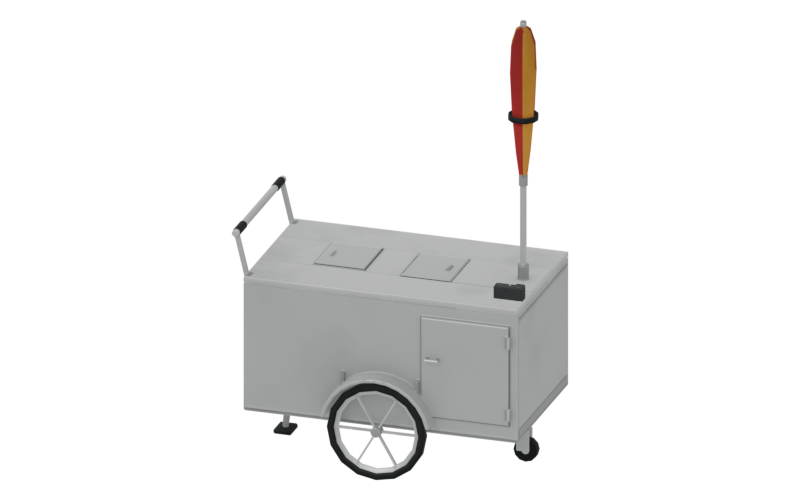
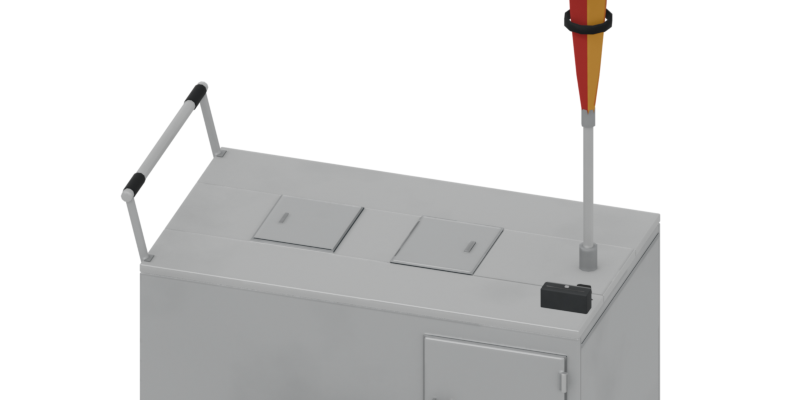
Render the equipment diagrams as close-ups of the places
Peter found the icons too small on the whole-vehicle drawings. The truck
now shows only the back counter with its four places (1200 x 400), the
cart only its counter top (800 x 400), each framed so a 0.40 m piece is a
third of the image height.

diff --git a/art/tools/render_diagrams.py b/art/tools/render_diagrams.py
@@ -25,7 +25,7 @@ CHECK = args[3] if len(args) > 3 else None
 
 PIECE = 0.40          # a piece's footprint along the line (m): the icon's suggested size
 PIECE_HALF_HEIGHT = 0.22  # icon centre above the place (a typical piece is 0.40 to 0.50 m tall)
-MARGIN = 0.04
+ICON_FRACTION = 0.33  # a 0.40 m piece as a fraction of the image height
 METALLIC = 1.0
 
 
@@ -35,19 +35,19 @@ def unity(x, y, z):
 
 KINDS = [
     {
-        "kind": "truck", "image": "VehicleDiagram_Truck.png", "size": (1200, 500),
+        "kind": "truck", "image": "VehicleDiagram_Truck.png", "size": (1200, 400), "lift": 0.10,
         "fbx": "truck/FoodTruck.fbx", "tex": "truck/T_FoodTruck_BC.png",
         "hide": ["Truck_Collision", "Truck_Hatch"],
-        "azimuth": 0, "elevation": 16,
+        "azimuth": 0, "elevation": 18,
         # VehicleDisplays' Truck layout: filled from the middle out.
         "places": [("EquipmentLine2", unity(-0.62, 1.75, -0.875)), ("EquipmentLine3", unity(-0.62, 1.75, -1.325)),
                    ("EquipmentLine1", unity(-0.62, 1.75, -0.425)), ("EquipmentLine4", unity(-0.62, 1.75, -1.775))],
     },
     {
-        "kind": "cart", "image": "VehicleDiagram_Cart.png", "size": (800, 500),
+        "kind": "cart", "image": "VehicleDiagram_Cart.png", "size": (800, 400), "lift": 0.12,
         "fbx": "cart/FoodCart.fbx", "tex": "cart/T_FoodCart_BC.png",
         "hide": ["Cart_Collision", "Cart_Canopy"],
-        "azimuth": 18, "elevation": 22,
+        "azimuth": 18, "elevation": 28,
         "places": [("EquipmentFront", unity(0, 0.963, 0.30)), ("EquipmentRear", unity(0, 0.963, -0.30))],
         # Cash register: Unity (0.29, 0.95, 0.615), +90 degrees about Y (Blender -90 about Z), scale 1.
         "register": (unity(0.29, 0.95, 0.615), -90, 1.0),
@@ -172,21 +172,16 @@ def render(spec):
     cam.data.type = "ORTHO"
     scene.collection.objects.link(cam)
     scene.camera = cam
-    bpy.context.view_layer.update()
-    pts = [o.matrix_world @ v.co for o in meshes for v in o.data.vertices]
-    centre = sum(pts, Vector()) / len(pts)
+    # A close-up of the places: centred on them (raised by the spec's "lift"), scaled so a 0.40 m piece is
+    # ICON_FRACTION of the image height. The rest of the model runs off the edges.
+    centre = sum((p for _, p in spec["places"]), Vector()) / len(spec["places"]) + Vector((0, 0, spec["lift"]))
     cam.location = centre + direction * 20
     cam.rotation_euler = (-direction).to_track_quat("-Z", "Y").to_euler()
     cam.data.clip_end = 100
-    bpy.context.view_layer.update()
-    inv = cam.matrix_world.inverted()
-    local = [inv @ p for p in pts]
-    xs, ys = [p.x for p in local], [p.y for p in local]
-    cam.location = cam.matrix_world @ Vector(((max(xs) + min(xs)) / 2, (max(ys) + min(ys)) / 2, 0))
     w, h = spec["size"]
-    span_x, span_y = max(xs) - min(xs), max(ys) - min(ys)
     cam.data.sensor_fit = "HORIZONTAL"
-    cam.data.ortho_scale = max(span_x, span_y * w / h) / (1 - 2 * MARGIN)
+    cam.data.ortho_scale = w / (ICON_FRACTION * h / PIECE)
+    bpy.context.view_layer.update()
 
     # Lights relative to the view: key from the front left and above, soft fill from the right, a little rim.
     right = cam.matrix_world.to_3x3() @ Vector((1, 0, 0))

diff --git a/art/README.md b/art/README.md
@@ -136,7 +136,7 @@ Sixteen compact pieces for the cart's counter spots, one folder each in `equipme
 
 `tools/build-mod.sh` copies each FBX (as `<Name>_Model.fbx`) and its three maps into `unity/FoodTrucks/Vehicles/EquipmentArt/` and its icon into `EquipmentArt/Icons/`, and `EquipmentAssets` makes an HDRP/Lit material, a `<Name>_Display.prefab` (body mesh only, no collider) and an icon sprite per model there. Only the `.meta` files, materials and prefabs are committed. The suffixes keep these files from sharing a name with the mod's machine items (`griddle`, `corngrill`, `dumplingsteamer`): the game finds an item's prefab by file name in any mod's bundle. The dumpling steamer, griddle and corn grill are also game items; `ItemAssets` builds their item prefabs in `unity/FoodTrucks/Items/Prefabs` from the same models. `art/tools/render_icons.sh` renders the icons in the game's item icon style (512 × 512, transparent, the front and the left side seen from 26° to the left and 24° above, the model filling 86% of the frame, measured on the game's `HotdogGrill` and `IndustrialGrill` icons), with the surface maps. It writes `Icon_<Name>.png` into every equipment folder (the order lists' pictures, loaded from the bundle as `Assets/Mods/FoodTrucks/Vehicles/EquipmentArt/Icons/Icon_<Name>.png`; the prefix keeps them apart from every prefab and item name) and the mod's eight item icons into `unity/FoodTrucks/Items/Icons`, which are committed. `data/economy.json`'s `display` field picks a piece's model by name: the coffee machine shows `CoffeeStation`, the cooler `DrinksCooler`, the hot dog grill `HotDogRoller`, the burger station `BurgerStation`, the ice cream counter `IceCreamCabinet`, the pizza oven `PizzaOven` and the display case `PastryCase`. The new foods' pieces show `PopcornMachine`, `SlushieMachine`, `DumplingSteamer`, `Griddle` and `CornGrill`; `CottonCandyMachine`, `KabobGrill` and `MerchRack` have no piece. The last five of the first fifteen were modelled with the game's own item icons attached as references (kept outside the repo), so they match the game's look at cart size. `StorageCabinet`, a steel cabinet with two doors and an open shelf of cartons, is the Extra Storage piece and also a game item (`foodtrucks:itemname_storagecabinet`, plan "Storage per piece"). A piece without a `display` shows nothing.
 
-**Equipment diagrams.** `art/tools/render_diagrams.sh` renders the BizMan vehicle page's pictures of where the pieces go, with every place empty: `unity/FoodTrucks/UI/VehicleDiagram_Truck.png` (1200 × 500, the hatch side with the compartment cut open above the floor and the hatch hidden, so the back counter shows) and `VehicleDiagram_Cart.png` (800 × 500, the cart's right side a little from the front, umbrella furled, register in place), orthographic, transparent, lit like the icons. It projects each place through the render camera into `data/vehicle-diagrams.json` (x right, y down, 0 to 1, in the order `VehicleDisplays` fills them) and writes `build/diagram-check.png` with the places circled. Run it again after moving a place or changing either model; the places' positions are in the script.
+**Equipment diagrams.** `art/tools/render_diagrams.sh` renders the BizMan vehicle page's pictures of where the pieces go, with every place empty: `unity/FoodTrucks/UI/VehicleDiagram_Truck.png` (1200 × 400, a close-up of the back counter's four places, seen from the hatch side with the compartment cut open above the floor and the hatch hidden) and `VehicleDiagram_Cart.png` (800 × 400, a close-up of the counter top from the cart's right side, a little from the front, umbrella furled, register in place), orthographic, transparent where nothing is, lit like the icons. Both are framed so a 0.40 m piece is a third of the image height (`ICON_FRACTION`). It projects each place through the render camera into `data/vehicle-diagrams.json` (x right, y down, 0 to 1, in the order `VehicleDisplays` fills them) and writes `build/diagram-check.png` with the places circled. Run it again after moving a place or changing either model; the places' positions are in the script.
 
 On the cart, `VehicleDisplays` puts the first fitted piece on `EquipmentFront` and the second on `EquipmentRear` (each keeps its spot while fitted), turned 90° to face the side the queue forms on while the cart is open, and the cart's right side otherwise.
 
